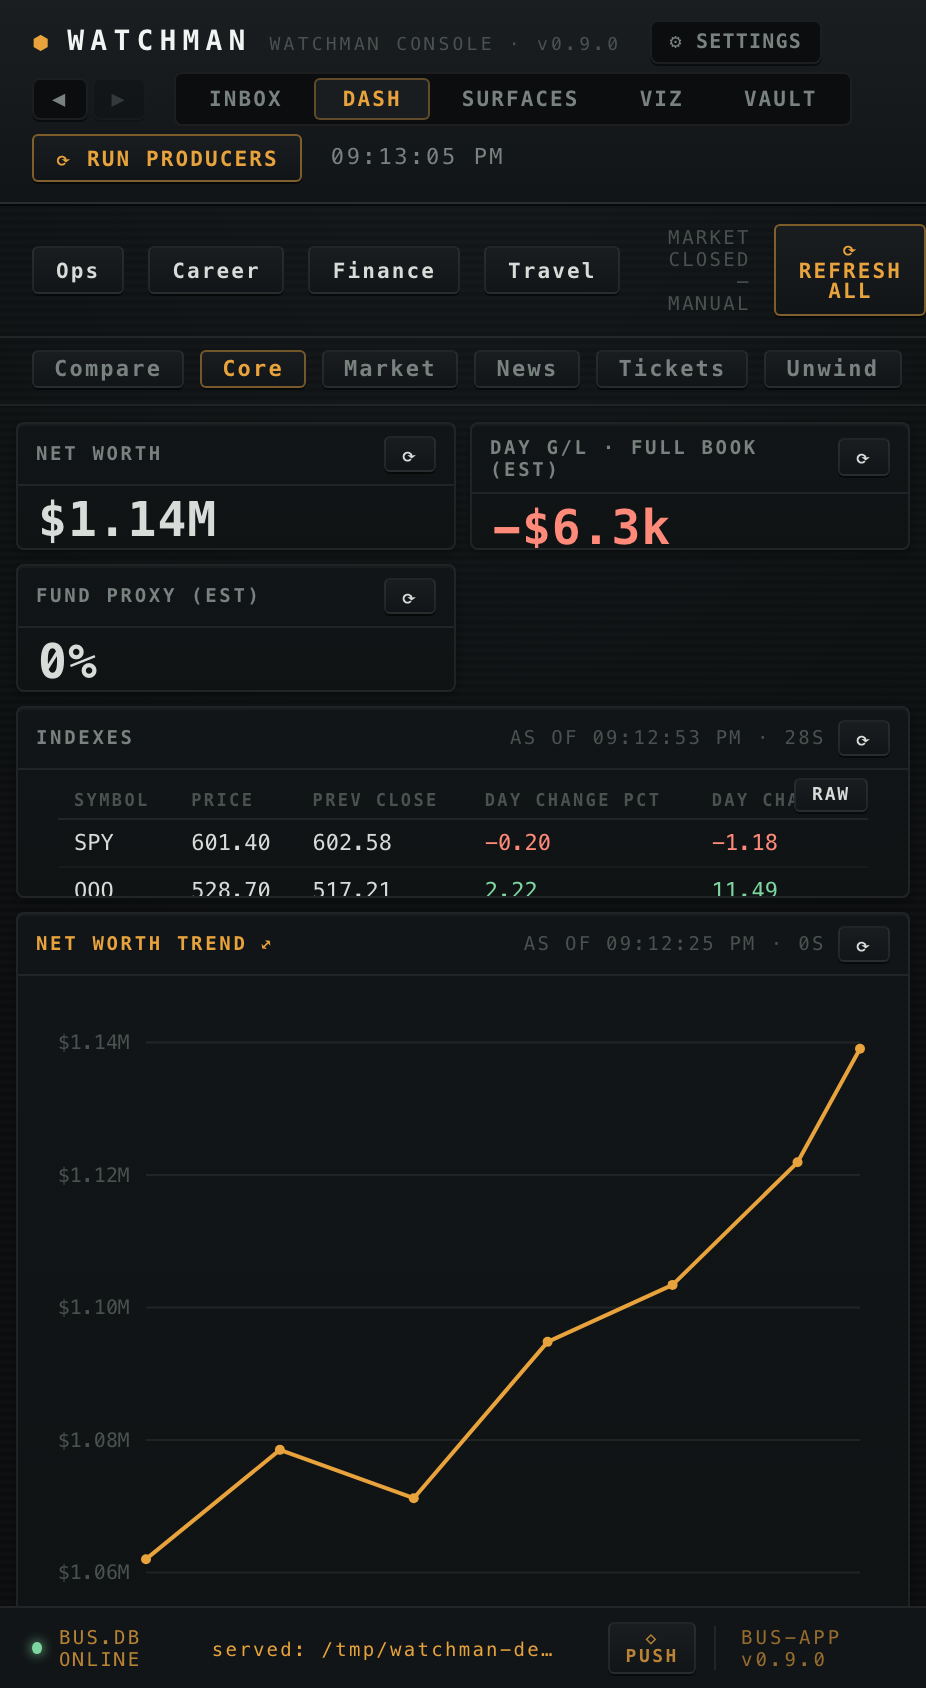
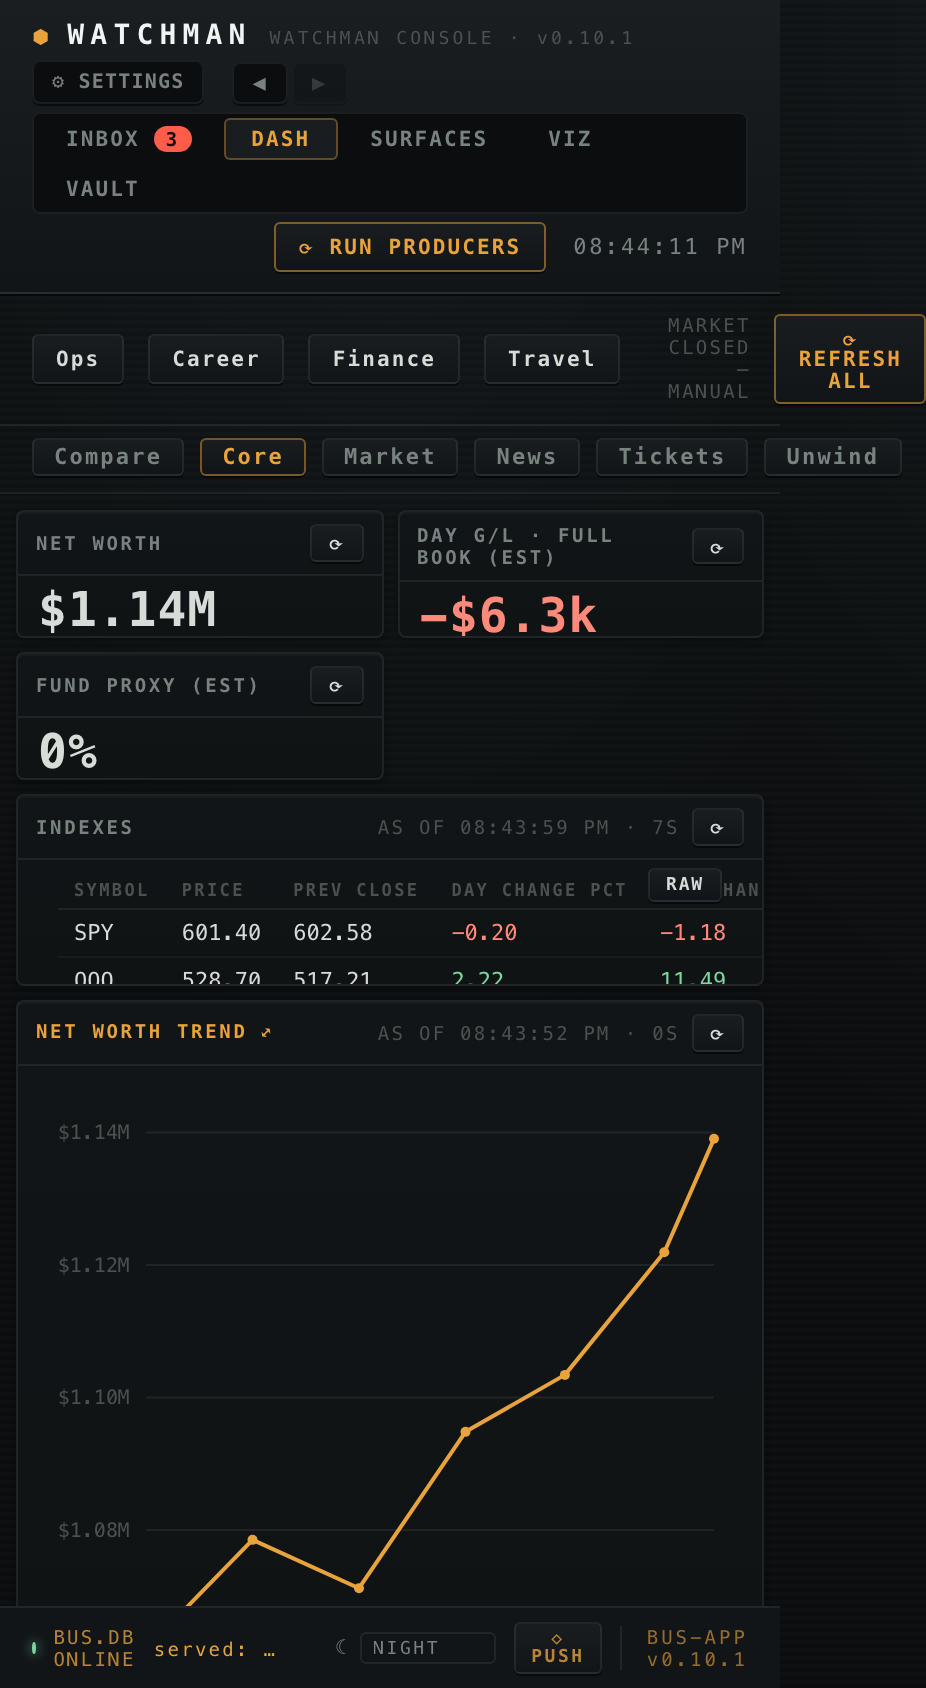
docs: refresh the phone screenshots to the current mobile console
The 'On your phone' stills predated the mobile-first pass they sit under. Re-recorded from the
0.10.1 build on the demo persona: the Finance Core board in the one-column phone layout, and the
execution ticket in the full-width VAULT reader (master-detail below 600px). Caption updated to
describe the reader flow.

diff --git a/docs/EXAMPLES.md b/docs/EXAMPLES.md
@@ -117,7 +117,8 @@ redwatch, fjord, abyss, dusk, outrun, solar, mono) — one toggle in the footer:
 <img src="assets/phone-tickets.png" alt="An execution ticket on a phone" width="330">
 </p>
 
-_Left: the Finance Core board. Right: a (fictional) execution ticket — swipeable tables._
+_Left: the Finance Core board. Right: a (fictional) execution ticket in the full-width phone reader
+(VAULT is a master-detail flow below 600px — the tree is the page, a doc opens with a ◀ back control)._
 
 
 ### ⚙ Settings — one home for the console's configuration
